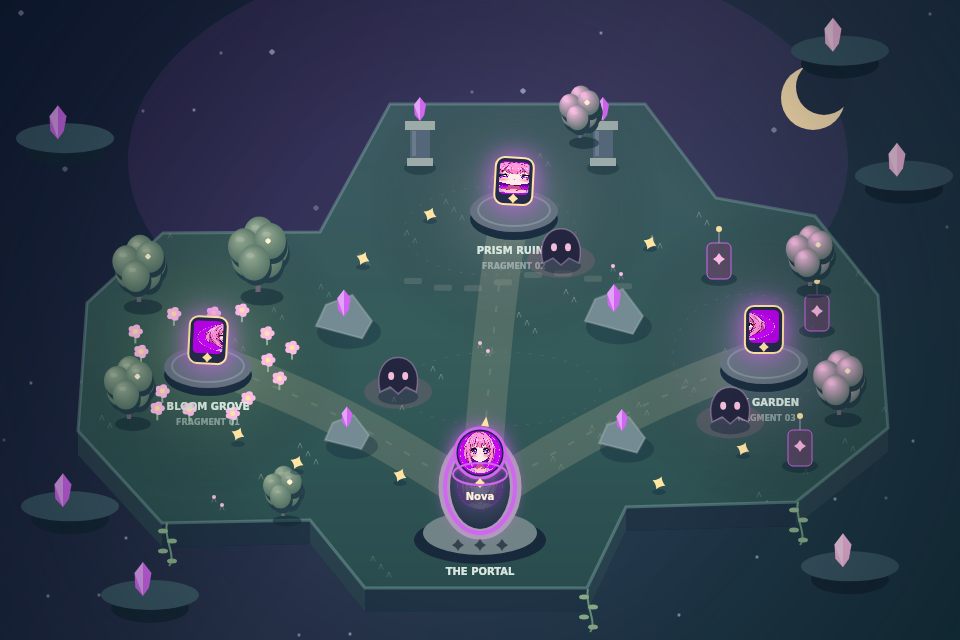
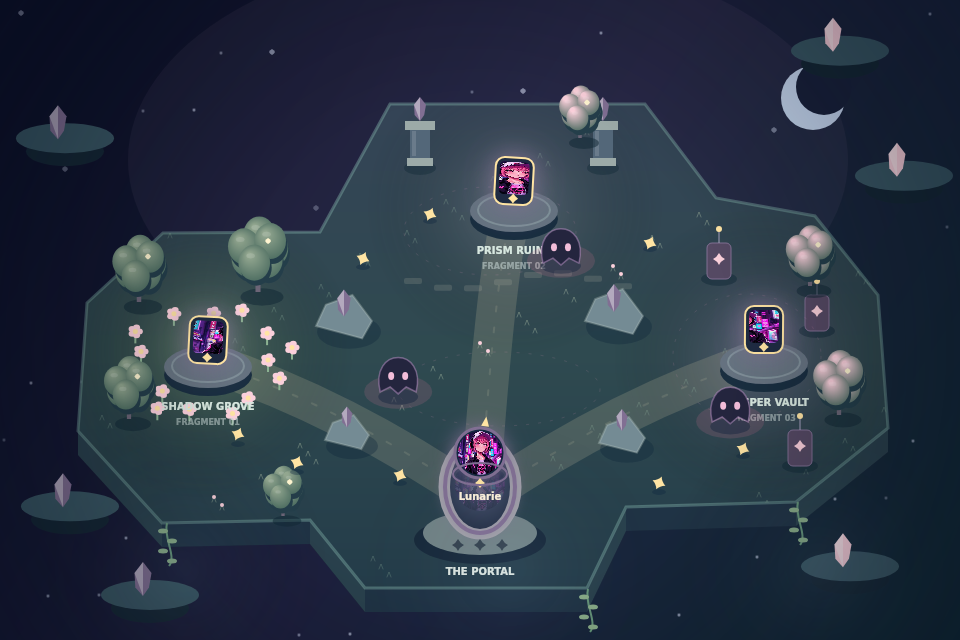
Add mysterious Lunarie benchmark and completion collectible reveal

diff --git a/src/components/artoy/FragmentQuest.tsx b/src/components/artoy/FragmentQuest.tsx
@@ -30,7 +30,13 @@ import {
 import { DEFAULT_PALETTE, extractPalette, prepareHero } from "./quest/artwork";
 import { renderQuest } from "./quest/render";
 
-type Props = { artworkSrc: string; characterName: string; heroSrc?: string | null };
+type Props = {
+  artworkSrc: string;
+  characterName: string;
+  heroSrc?: string | null;
+  collectibleSrc?: string | null;
+  onExploreCollectible?: () => void;
+};
 type Snapshot = {
   phase: Phase;
   hearts: number;
@@ -57,7 +63,13 @@ function artworkKey(src: string) {
   return `artoy.fragment-quest.v1.${(hash >>> 0).toString(16)}`;
 }
 
-export function FragmentQuest({ artworkSrc, characterName, heroSrc }: Props) {
+export function FragmentQuest({
+  artworkSrc,
+  characterName,
+  heroSrc,
+  collectibleSrc,
+  onExploreCollectible,
+}: Props) {
   const root = useRef<HTMLDivElement>(null);
   const arena = useRef<HTMLDivElement>(null);
   const canvas = useRef<HTMLCanvasElement>(null);
@@ -86,6 +98,8 @@ export function FragmentQuest({ artworkSrc, characterName, heroSrc }: Props) {
   const [artError, setArtError] = useState(false);
   const [expanded, setExpanded] = useState(false);
   const [compact, setCompact] = useState(false);
+  const [collectibleFailed, setCollectibleFailed] = useState(false);
+  const hasCollectible = !!collectibleSrc && !collectibleFailed;
   const storageKey = useMemo(() => artworkKey(artworkSrc), [artworkSrc]);
   const storageRef = useRef(storageKey);
   storageRef.current = storageKey;
@@ -140,6 +154,10 @@ export function FragmentQuest({ artworkSrc, characterName, heroSrc }: Props) {
     setAnnouncement("A fresh adventure. Recover the three fragments.");
     changePhase("playing");
   };
+
+  useEffect(() => {
+    setCollectibleFailed(false);
+  }, [collectibleSrc, artworkSrc]);
 
   useEffect(() => {
     let cancelled = false;
@@ -367,7 +385,7 @@ export function FragmentQuest({ artworkSrc, characterName, heroSrc }: Props) {
             <Sparkles size={13} /> ARTOY ORIGINAL · CHAPTER 01
           </span>
           <h3>The Lost Fragments</h3>
-          <p>A little adventure inside {characterName}’s universe.</p>
+          <p>A mysterious signal from {characterName}’s universe.</p>
         </div>
         <div className="quest-tools">
           <button
@@ -494,8 +512,8 @@ export function FragmentQuest({ artworkSrc, characterName, heroSrc }: Props) {
               One way home.
             </h4>
             <p>
-              The portal has lost its light. Recover your art fragments and bring your universe back
-              to life.
+              Something is calling from beyond the portal. Recover three lost art fragments, evade
+              the inklings, and discover what the archive is hiding.
             </p>
             <button className="quest-primary" onClick={() => changePhase("playing")}>
               <Play size={17} fill="currentColor" /> Start adventure
@@ -545,6 +563,46 @@ export function FragmentQuest({ artworkSrc, characterName, heroSrc }: Props) {
           </div>
         )}
       </div>
+      {hud.phase === "won" && (
+        <section className="quest-reward" aria-label="Collectible preview revealed">
+          <div className="quest-reward-art">
+            <span className="quest-reward-edition">ARCHIVE 01</span>
+            <img
+              src={hasCollectible ? collectibleSrc! : artworkSrc}
+              alt={
+                hasCollectible
+                  ? `${characterName} figurine concept revealed after completing the adventure`
+                  : `${characterName} character card preview`
+              }
+              onError={() => {
+                if (hasCollectible) setCollectibleFailed(true);
+              }}
+            />
+            <span className="quest-reward-name">{characterName}</span>
+          </div>
+          <div className="quest-reward-copy">
+            <span className="quest-kicker">
+              <Sparkles size={13} /> UNSEALED FROM THE ARCHIVE
+            </span>
+            <h4>Your character. A new form.</h4>
+            <p>
+              {hasCollectible
+                ? `The portal reveals ${characterName}’s collectible figurine concept.`
+                : `${characterName}’s first character card has emerged from the portal.`}
+            </p>
+            <small>
+              {hasCollectible
+                ? "Concept preview · Physical products are not available to purchase yet."
+                : "Digital card preview · Figurine concepts appear when generation succeeds."}
+            </small>
+            {onExploreCollectible && (
+              <button className="quest-primary" onClick={onExploreCollectible}>
+                Explore collectible concepts <Gem size={16} />
+              </button>
+            )}
+          </div>
+        </section>
+      )}
       <div className="quest-bottom">
         <div className="quest-objective">
           <span>{hud.fragments === 3 ? "RETURN HOME" : "YOUR QUEST"}</span>

diff --git a/src/styles.css b/src/styles.css
@@ -2312,3 +2312,113 @@
 .quest-arena.quest-compact canvas {
   aspect-ratio: 1;
 }
+
+.quest-overlay > div {
+  max-height: 100%;
+  overflow-y: auto;
+}
+.quest-reward {
+  display: grid;
+  grid-template-columns: 150px minmax(0, 1fr);
+  align-items: center;
+  gap: 24px;
+  margin: 20px 24px 4px;
+  padding: 20px;
+  border: 1px solid color-mix(in srgb, var(--quest-accent) 35%, transparent);
+  border-radius: 18px;
+  background: radial-gradient(ellipse at 10% 40%, #7770b525, transparent 65%), #0e182b;
+  animation: quest-unseal 650ms ease-out both;
+}
+.quest-reward-art {
+  position: relative;
+  aspect-ratio: 0.8;
+  overflow: hidden;
+  border-radius: 11px;
+  border: 1px solid color-mix(in srgb, var(--quest-accent) 55%, transparent);
+  background: #1e2140;
+  box-shadow: 0 8px 24px #050d2377;
+}
+.quest-reward-art img {
+  display: block;
+  width: 100%;
+  height: 100%;
+  object-fit: contain;
+}
+.quest-reward-edition,
+.quest-reward-name {
+  position: absolute;
+  z-index: 1;
+  left: 0;
+  right: 0;
+  padding: 8px 10px;
+  background: #0b152cc9;
+  backdrop-filter: blur(6px);
+  font-size: 9px;
+  letter-spacing: 0.1em;
+  font-weight: 800;
+  color: #e5d0ff;
+}
+.quest-reward-edition {
+  top: 0;
+}
+.quest-reward-name {
+  bottom: 0;
+  font-size: 12px;
+  letter-spacing: 0;
+}
+.quest-reward-copy h4 {
+  margin: 8px 0;
+  font-size: 24px;
+  line-height: 1.15;
+  font-weight: 750;
+  letter-spacing: -0.04em;
+}
+.quest-reward-copy p {
+  margin: 0 0 9px;
+  font-size: 12px;
+  line-height: 1.6;
+  color: #c1cae0;
+}
+.quest-reward-copy small {
+  display: block;
+  font-size: 10px;
+  line-height: 1.6;
+  color: #95a5bf;
+}
+.quest-reward-copy button {
+  margin-top: 14px;
+}
+@keyframes quest-unseal {
+  from {
+    opacity: 0;
+    transform: translateY(12px);
+  }
+  to {
+    opacity: 1;
+    transform: translateY(0);
+  }
+}
+@media (max-width: 600px) {
+  .quest-reward {
+    grid-template-columns: 1fr;
+    gap: 15px;
+    margin: 14px 12px 4px;
+    padding: 16px;
+  }
+  .quest-reward-art {
+    width: 140px;
+    justify-self: center;
+  }
+  .quest-reward-copy h4 {
+    font-size: 22px;
+  }
+  .quest-reward-copy .quest-primary {
+    width: 100%;
+    font-size: 11px;
+  }
+}
+@media (prefers-reduced-motion: reduce) {
+  .quest-reward {
+    animation: none;
+  }
+}

diff --git a/src/components/artoy/quest/render.ts b/src/components/artoy/quest/render.ts
@@ -157,9 +157,9 @@ export function renderQuest(
   ctx.imageSmoothingQuality = "high";
   ctx.clearRect(0, 0, WIDTH, HEIGHT);
   const sky = ctx.createLinearGradient(0, 0, WIDTH, HEIGHT);
-  sky.addColorStop(0, "#111b35");
-  sky.addColorStop(0.5, "#29354e");
-  sky.addColorStop(1, "#183943");
+  sky.addColorStop(0, "#090e25");
+  sky.addColorStop(0.5, "#1d203e");
+  sky.addColorStop(1, "#102b37");
   ctx.fillStyle = sky;
   ctx.fillRect(0, 0, WIDTH, HEIGHT);
   // A luminous sky and distant floating islands establish depth before the playable plane.
@@ -167,8 +167,8 @@ export function renderQuest(
   ctx.globalAlpha = 0.11;
   ellipse(ctx, 488, 160, 360, 210, p.primary);
   ctx.restore();
-  ellipse(ctx, 813, 98, 32, 32, "#ffe5b5");
-  ellipse(ctx, 824, 87, 28, 28, "#233349");
+  ellipse(ctx, 813, 98, 32, 32, "#c7d9f2");
+  ellipse(ctx, 824, 87, 28, 28, "#18213b");
   for (let i = 0; i < 52; i++) {
     const x = (i * 173 + 21) % WIDTH,
       y = (i * 97 + 13) % HEIGHT;
@@ -201,9 +201,9 @@ export function renderQuest(
   }
   landPath(ctx);
   const ground = ctx.createLinearGradient(0, 110, 0, 600);
-  ground.addColorStop(0, "#3c5961");
-  ground.addColorStop(0.5, "#345b5a");
-  ground.addColorStop(1, "#294b4d");
+  ground.addColorStop(0, "#344456");
+  ground.addColorStop(0.5, "#2f4a50");
+  ground.addColorStop(1, "#233b49");
   ctx.fillStyle = ground;
   ctx.fill();
   ctx.strokeStyle = "#87bab066";
@@ -557,9 +557,18 @@ export function renderQuest(
     }
   }
   // A subtle vignette keeps the edges quiet without obscuring navigation.
+  // Mist stays over the lower island edges; paths, patrols and fragments remain legible.
+  for (let i = 0; i < 3; i++) {
+    const fogX = 180 + i * 310 + Math.sin(t * 0.12 + i) * 22;
+    const fog = ctx.createRadialGradient(fogX, 568, 5, fogX, 568, 155);
+    fog.addColorStop(0, "#9ab4dc13");
+    fog.addColorStop(1, "transparent");
+    ctx.fillStyle = fog;
+    ctx.fillRect(fogX - 155, 430, 310, 210);
+  }
   const vignette = ctx.createRadialGradient(480, 350, 250, 480, 350, 650);
   vignette.addColorStop(0, "transparent");
-  vignette.addColorStop(1, "#08122288");
+  vignette.addColorStop(1, "#070d2188");
   ctx.fillStyle = vignette;
   ctx.fillRect(0, 0, WIDTH, HEIGHT);
 }

diff --git a/src/components/artoy/TryItNow.tsx b/src/components/artoy/TryItNow.tsx
@@ -16,15 +16,22 @@ import { Tabs, TabsContent, TabsList, TabsTrigger } from "@/components/ui/tabs";
 import { joinWaitlist } from "@/lib/waitlist.functions";
 import { FragmentQuest } from "./FragmentQuest";
 import { SAMPLES, type Creation, type CreatorSession } from "./useCreatorSession";
+import lunarie from "@/assets/artoy/lunarie.png";
+
+const GAME_CHARACTERS = [{ id: "lunarie", src: lunarie, name: "Lunarie" }, ...SAMPLES];
 
 function UniverseGame({
   source,
   heroSrc,
+  collectibleSrc,
+  onExploreCollectible,
 }: {
   source?: CreatorSession["source"];
   heroSrc?: string | null;
+  collectibleSrc?: string | null;
+  onExploreCollectible?: () => void;
 }) {
-  const [sample, setSample] = useState(SAMPLES[0]);
+  const [sample, setSample] = useState(GAME_CHARACTERS[0]);
   const artwork = source ?? { image: sample.src, name: sample.name };
   return (
     <div className="studio-game">
@@ -39,7 +46,7 @@ function UniverseGame({
           role="group"
           aria-label="Choose an adventure character"
         >
-          {SAMPLES.map((option) => (
+          {GAME_CHARACTERS.map((option) => (
             <button
               key={option.id}
               aria-pressed={sample.id === option.id}
@@ -55,6 +62,8 @@ function UniverseGame({
         artworkSrc={artwork.image}
         characterName={artwork.name}
         heroSrc={heroSrc}
+        collectibleSrc={collectibleSrc}
+        onExploreCollectible={onExploreCollectible}
       />
     </div>
   );
@@ -381,6 +390,10 @@ export function TryItNow({ session }: { session: CreatorSession }) {
               <UniverseGame
                 source={source}
                 heroSrc={experiences.find((item) => item.label === "Game Character")?.image}
+                collectibleSrc={merch.find((item) => item.label === "Figurine")?.image}
+                onExploreCollectible={
+                  merch.some((item) => item.image) ? () => setTab("merch") : undefined
+                }
               />
             </TabsContent>
           </Tabs>

diff --git a/src/components/artoy/quest/engine.ts b/src/components/artoy/quest/engine.ts
@@ -25,9 +25,9 @@ export const LAND: Vec[] = [
   { x: 320, y: 232 },
 ];
 export const SHRINES = [
-  { x: 208, y: 362, name: "Bloom grove", subtitle: "Find your first fragment" },
+  { x: 208, y: 362, name: "Shadow grove", subtitle: "Find your first fragment" },
   { x: 514, y: 206, name: "Prism ruins", subtitle: "Watch the roaming inkling" },
-  { x: 764, y: 358, name: "Ink garden", subtitle: "Dash through the patrol" },
+  { x: 764, y: 358, name: "Whisper vault", subtitle: "Dash through the patrol" },
 ];
 export const ROCKS = [
   { x: 344, y: 323, r: 28 },

diff --git a/docs/game-module-audit.md b/docs/game-module-audit.md
@@ -21,10 +21,10 @@ The supplied visual references established the intended relationship: an identif
 
 **Premise:** the character's portal has lost its light. Recover three pieces of its artwork to restore the universe, then bring the hero home.
 
-- **One map, one rule set:** a floating island with Bloom Grove, Prism Ruins and Ink Garden. Terrain geometry and the four solid rocks match the collision model. Decorative scenery is not additional collision geometry.
+- **One map, one rule set:** a moonlit floating island with Shadow Grove, Prism Ruins and Whisper Vault. Terrain geometry and the four solid rocks match the collision model. Decorative scenery is not additional collision geometry.
 - **One main action:** move and dash. Dash protects the hero and stuns roaming inklings for 2.5 seconds, followed by a 1.25-second recharge. Patrol routes remain visible, and an objective compass points to the nearest uncollected fragment or the opened portal.
 - **Clear stakes:** three hearts and 90 seconds. Completion requires all fragments plus entering the portal. Timeout and losing every heart are losses.
-- **Replay:** optional sparks, remaining time and surviving hearts improve the score. Personal bests are local to each original artwork; they confer no merchandise reward or purchase entitlement.
+- **Replay and reveal:** optional sparks, remaining time and surviving hearts improve the score. Completing the chapter unveils the generated figurine concept from the same source artwork, with a route to the Merch tab. Without a successful concept image, the archive reveals a digital character card using the original art. Failed concept images fall back to that card; losing and restarting do not retain the reveal. Personal bests are local to each original artwork; they confer no physical merchandise reward or purchase entitlement.
 - **Artwork integration:** original art is immediately playable as a framed floating token. Its palette themes the environment, three actual image slices become the fragments, and the whole artwork appears inside the portal. The neutral signature palette is clearly labeled when usable colors cannot be extracted.
 - **Generated hero:** the API now creates one isolated full-body **Game Character**. It preserves the identity reference and requests a plain white background, minimal margins and no extra poses. Edge-connected near-white pixels are removed locally and transparent margins are trimmed. The full generated image is used as the playable hero, without adding a generic body. Missing or failed hero assets retain the original-art token.
 - **Desktop and touch:** scoped keyboard controls, tap/drag destinations, held touch directions, dash, pause, restart, optional sound and optional fullscreen. Narrow canvases use a 640px camera view that follows the hero; the world remains 960×640. Inactive windows and hidden tabs pause the run. Reduced-motion preferences disable cosmetic animation.
@@ -57,5 +57,11 @@ Full browser interaction and responsive layout verification were blocked by loca
 ![World rendered from the implemented game code](previews/fragment-quest-world.png)
 
 ## Next quality gate
+
+Bryan selected a mysterious signature world and a collectible reveal on completion. **Lunarie** (`src/assets/artoy/lunarie.png`) is the chosen benchmark and default sample adventure. Her pink hair, cap, headphones, dark jacket and distinctive skull graphic provide concrete visible identity details to preserve across the source, game hero and figurine concept. Other samples remain freely selectable.
+
+The current implementation is a functional foundation rather than the final owner-facing “wow” standard. That standard requires immediate recognition of the IP in motion, readable idle/run/dash animation, environmental details that meaningfully reflect the character, and a collectible reveal that carries the same identity. A single composited hero pose and palette changes alone do not satisfy it. The benchmark should be used to assess those improvements without changing the curated gameplay rules.
+
+The follow-up DOM fixture verified that only a win reveals the concept, its image comes from the provided figurine asset, the concept action invokes navigation, image failure restores the source-art card, and restarting hides the reveal. The updated Lunarie world was rendered and visually inspected separately. TypeScript, changed-file ESLint, the nine engine tests and the production build pass. Browser/device and live-generation checks remain outstanding.
 
 Play the chapter on a real phone and desktop, then test live generation with a doodle, an illustrated mascot, a dark/white-heavy character and multi-subject artwork. Check that the single hero stays recognizable and that edge cleanup does not erase white details connected to the outside. If live generation fails that visual contract, improve asset preparation while keeping the curated gameplay unchanged. Merch continues to be concept previews.
